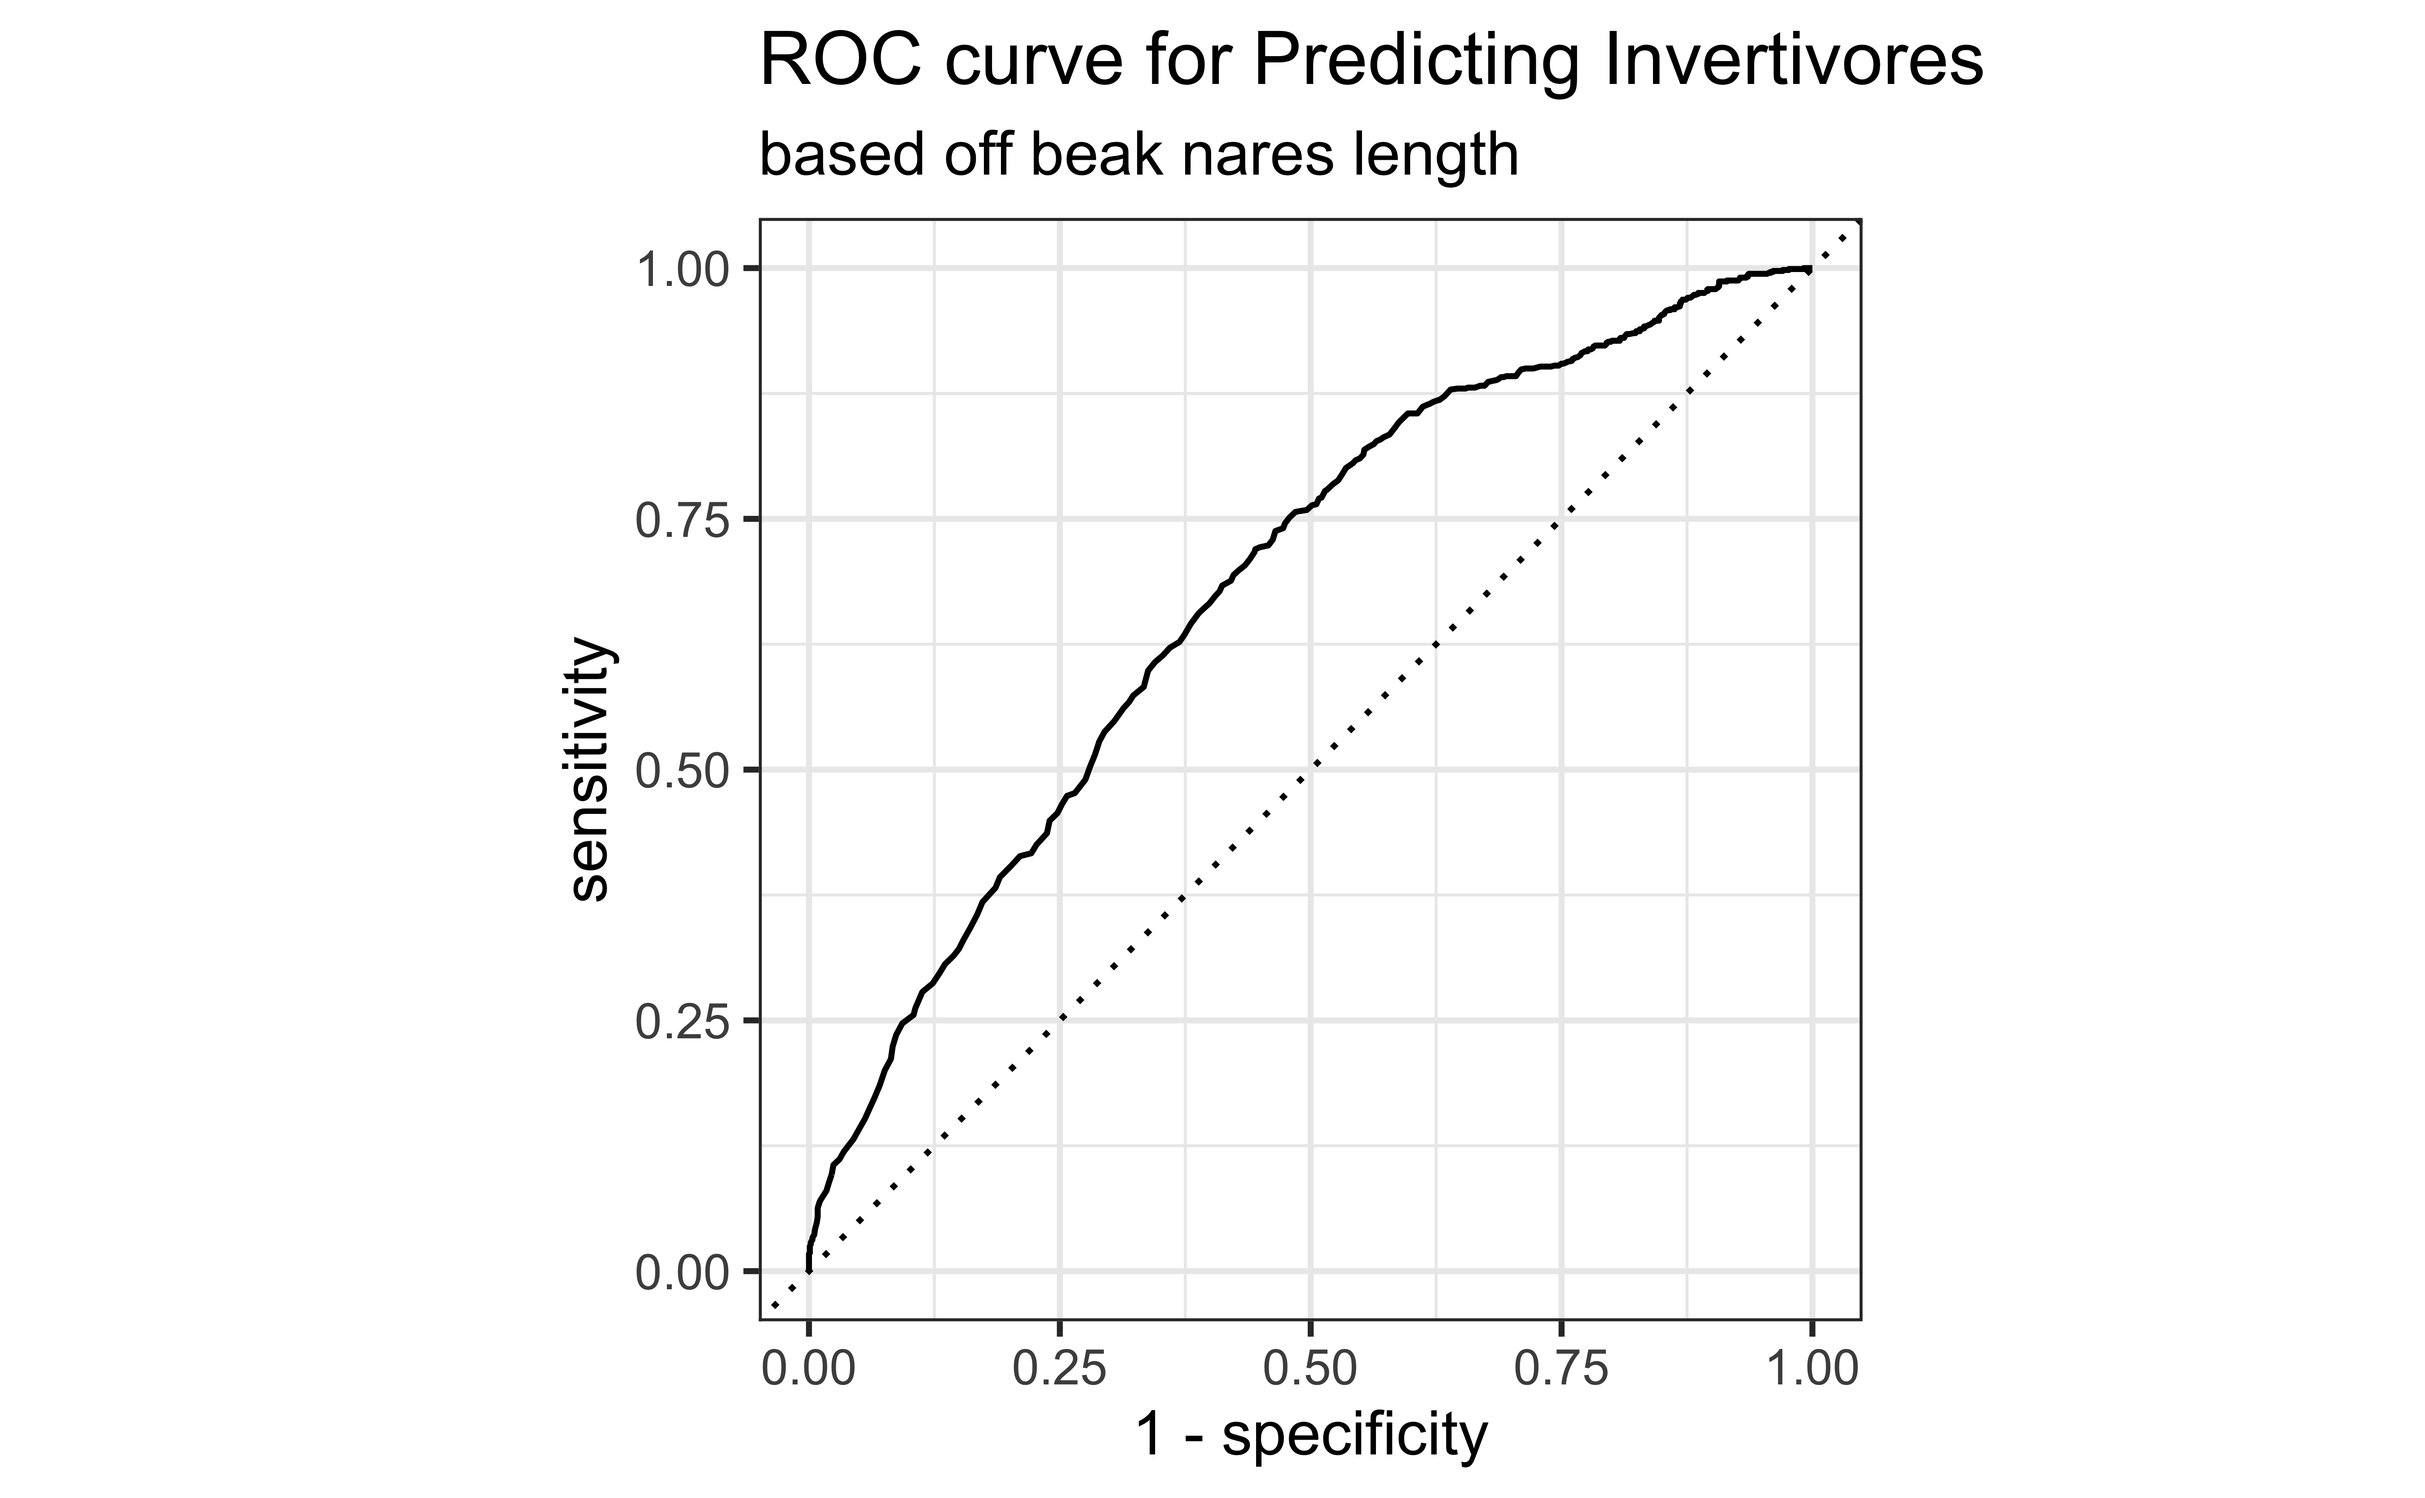
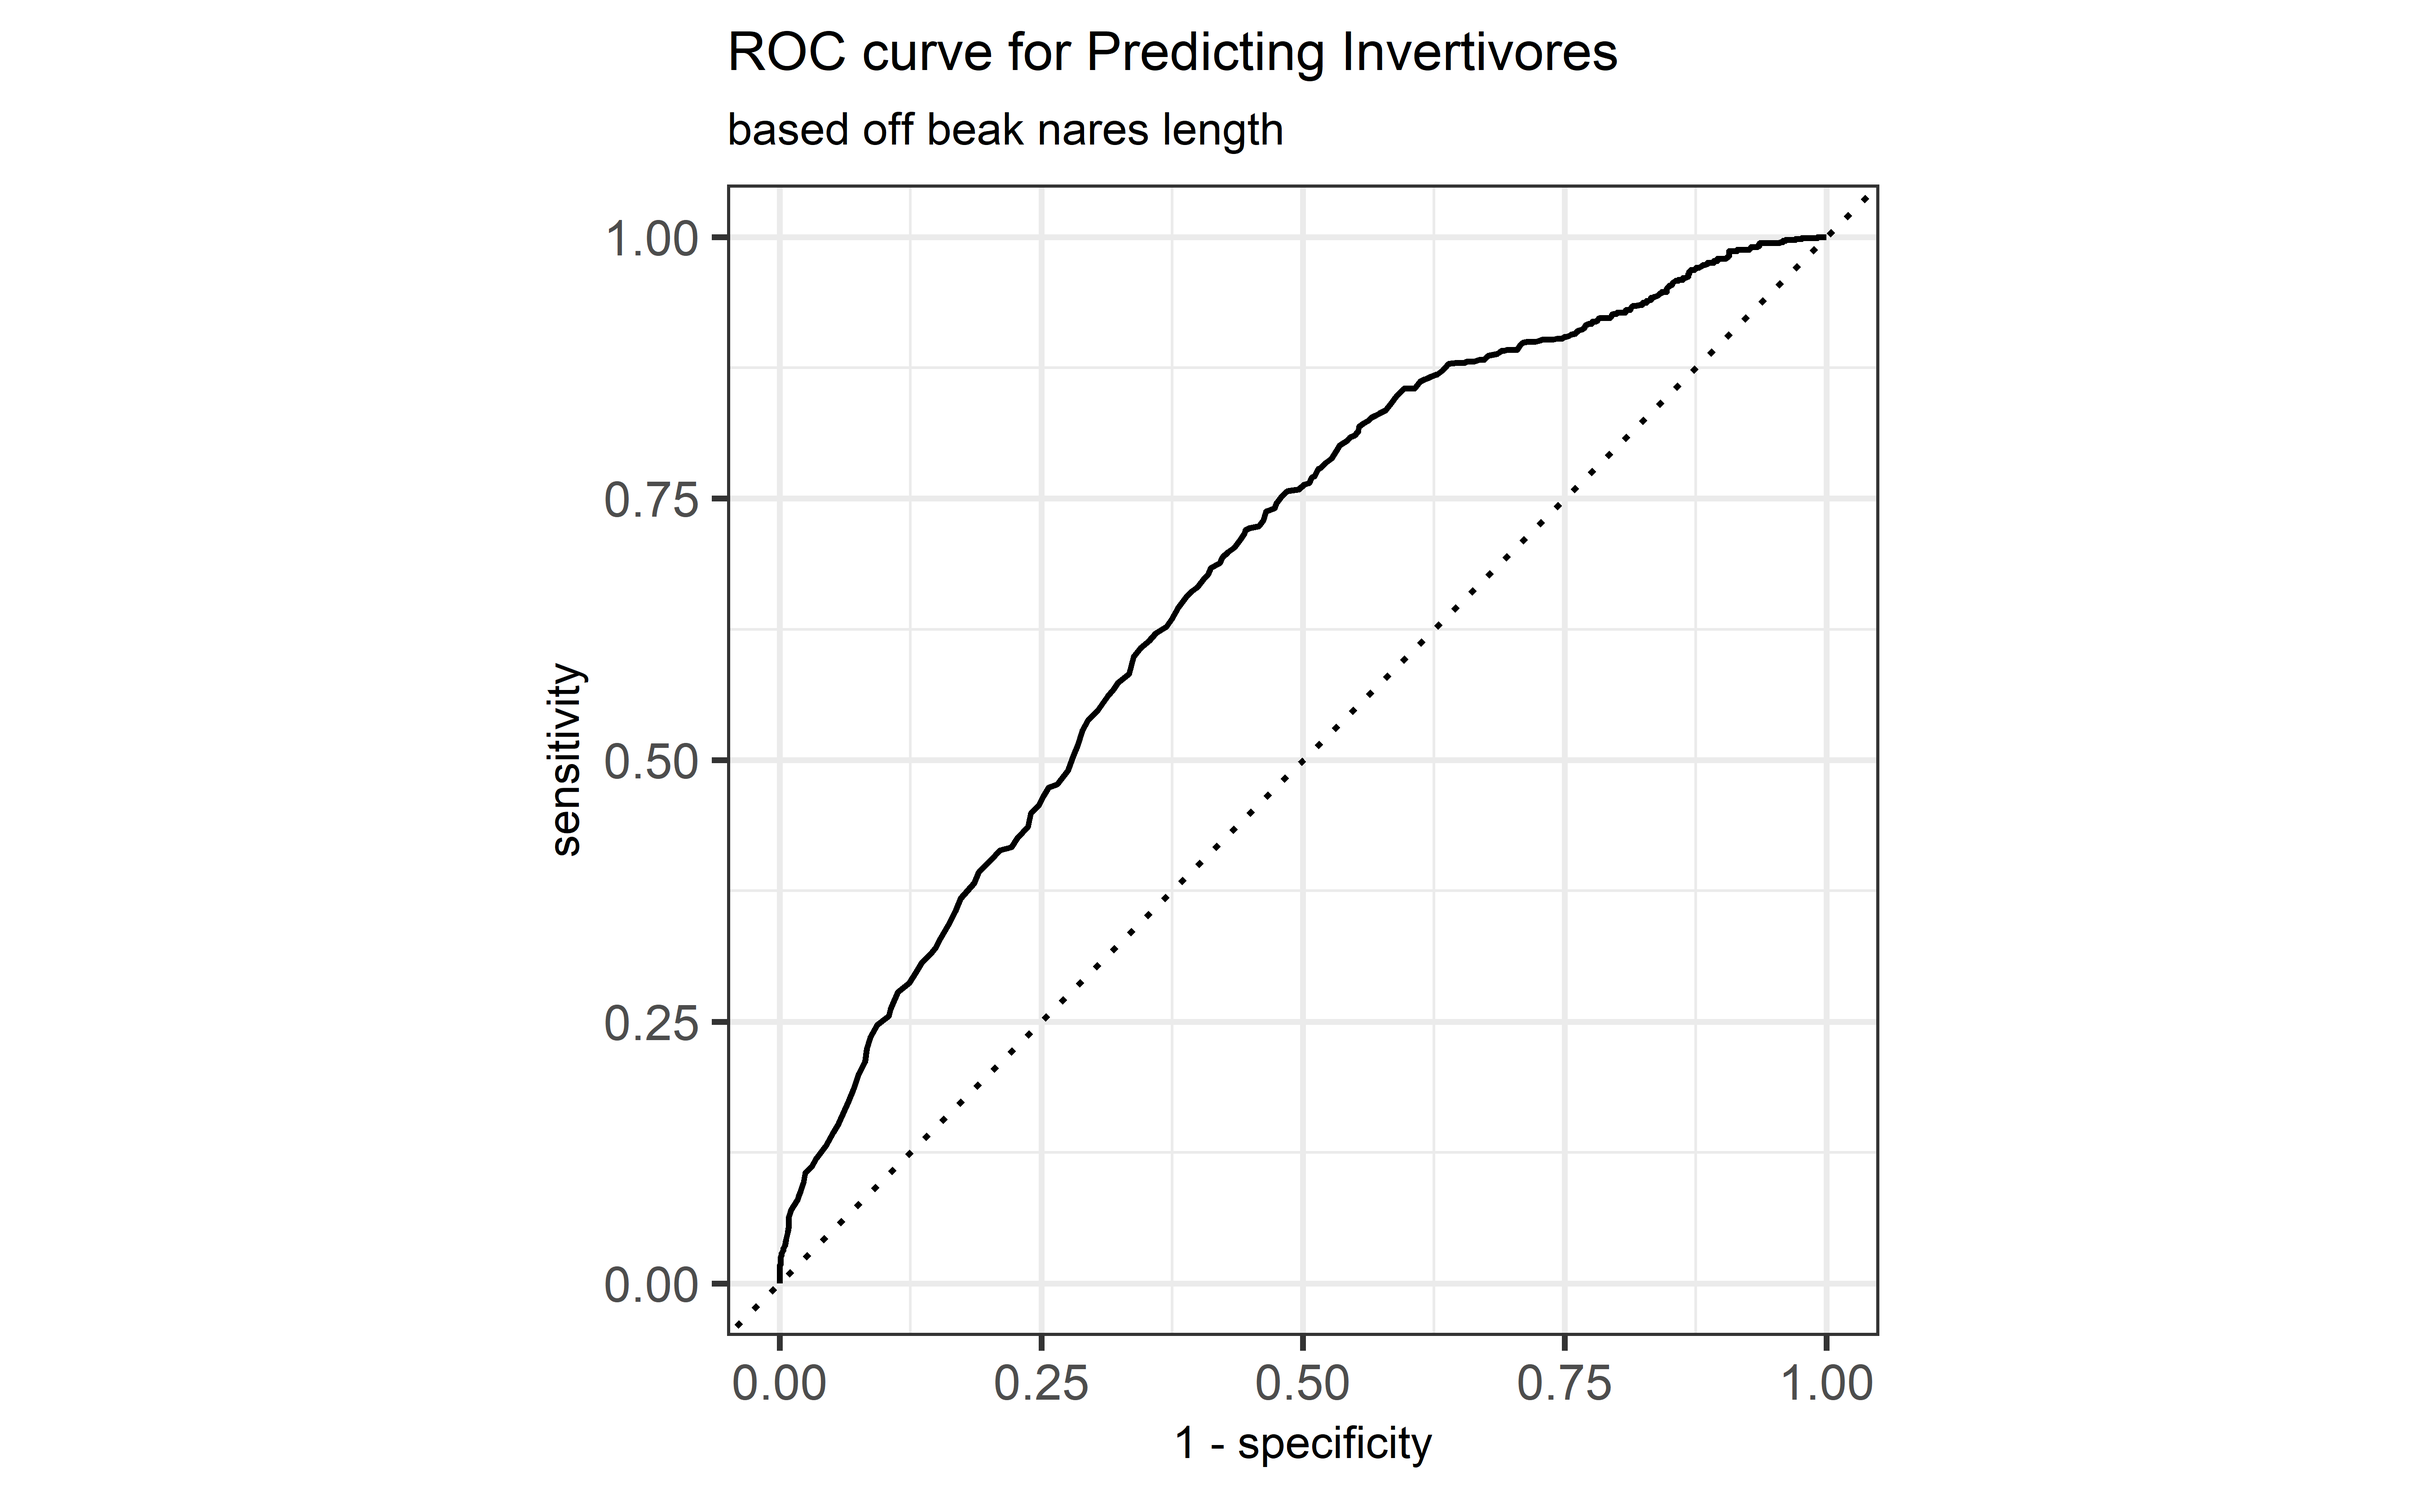
presentation

diff --git a/Birds/presentation-Birds.html b/Birds/presentation-Birds.html
@@ -248,16 +248,8 @@ background-image: url(https://images.unsplash.com/photo-1470167494176-c2e966a4eb
 
 `$$\log_{e}(\frac{p_{i}}{1-p_{i}}) = 0.809 - 0.058(Beak Nares Length)$$`
 ---
-<<<<<<< HEAD
-&lt;&lt;&lt;&lt;&lt;&lt;&lt; HEAD
-=======
 
->>>>>>> 0567880fba53da15f8fc2757de8cacfbcfc59745
 ##ROC curve for model of Invertivore Status from length
-=======
-background-image: url(https://images.unsplash.com/photo-1470167494176-c2e966a4eb3d?q=80&amp;w=2342&amp;auto=format&amp;fit=crop&amp;ixlib=rb-4.0.3&amp;ixid=M3wxMjA3fDB8MHxwaG90by1wYWdlfHx8fGVufDB8fHx8fA%3D%3D)
-#ROC curve for the model of Invertivore predicted just from beak length
-&gt;&gt;&gt;&gt;&gt;&gt;&gt; 78bef1be896ddc8205e7a1b9c9aee2afa5fb5f63
 
 background-image: url(https://images.unsplash.com/photo-1470167494176-c2e966a4eb3d?q=80&amp;w=2342&amp;auto=format&amp;fit=crop&amp;ixlib=rb-4.0.3&amp;ixid=M3wxMjA3fDB8MHxwaG90by1wYWdlfHx8fGVufDB8fHx8fA%3D%3D)
 
@@ -293,6 +285,7 @@ class: center, middle
 
 - Our model had an ROC value of 0.74 when using the three different types of beak data to predict whether or not the bird is an Invertivore
 - 
+&lt;img src="presentation-Birds_files/figure-html/printing both roc curves-1.png" width="80%" /&gt;
     </textarea>
 <style data-target="print-only">@media screen {.remark-slide-container{display:block;}.remark-slide-scaler{box-shadow:none;}}</style>
 <script src="https://remarkjs.com/downloads/remark-latest.min.js"></script>
